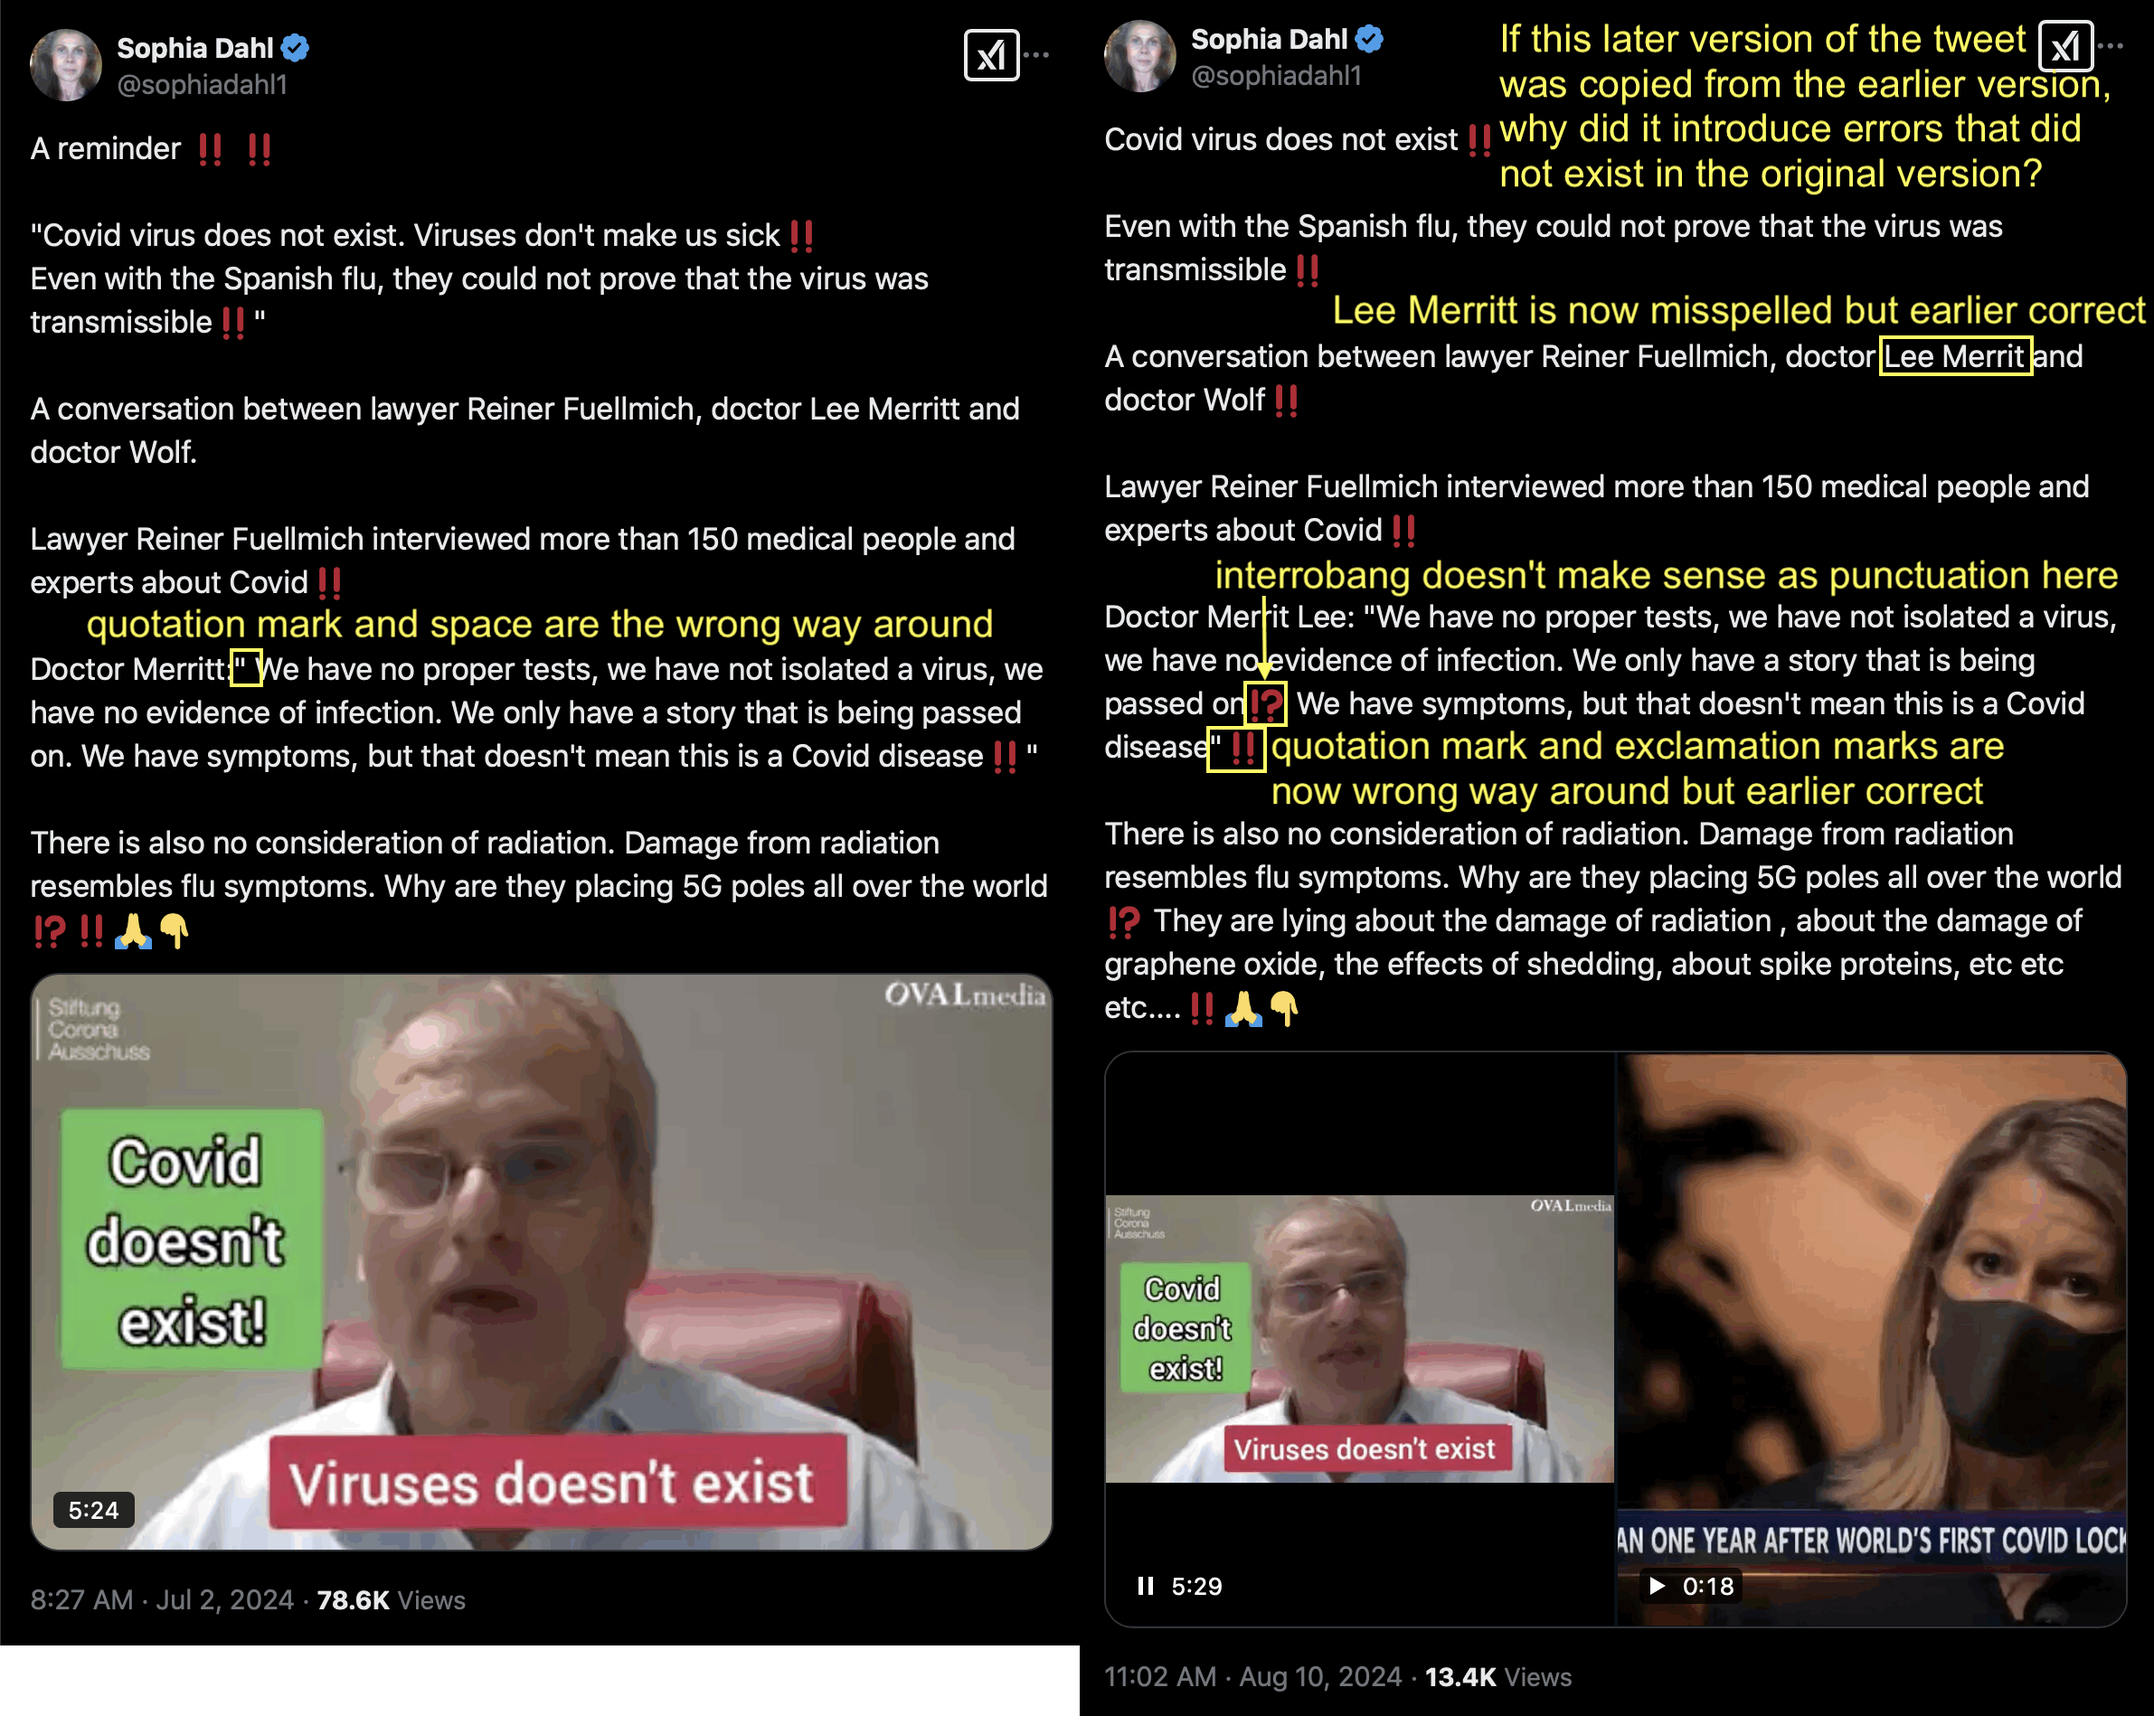
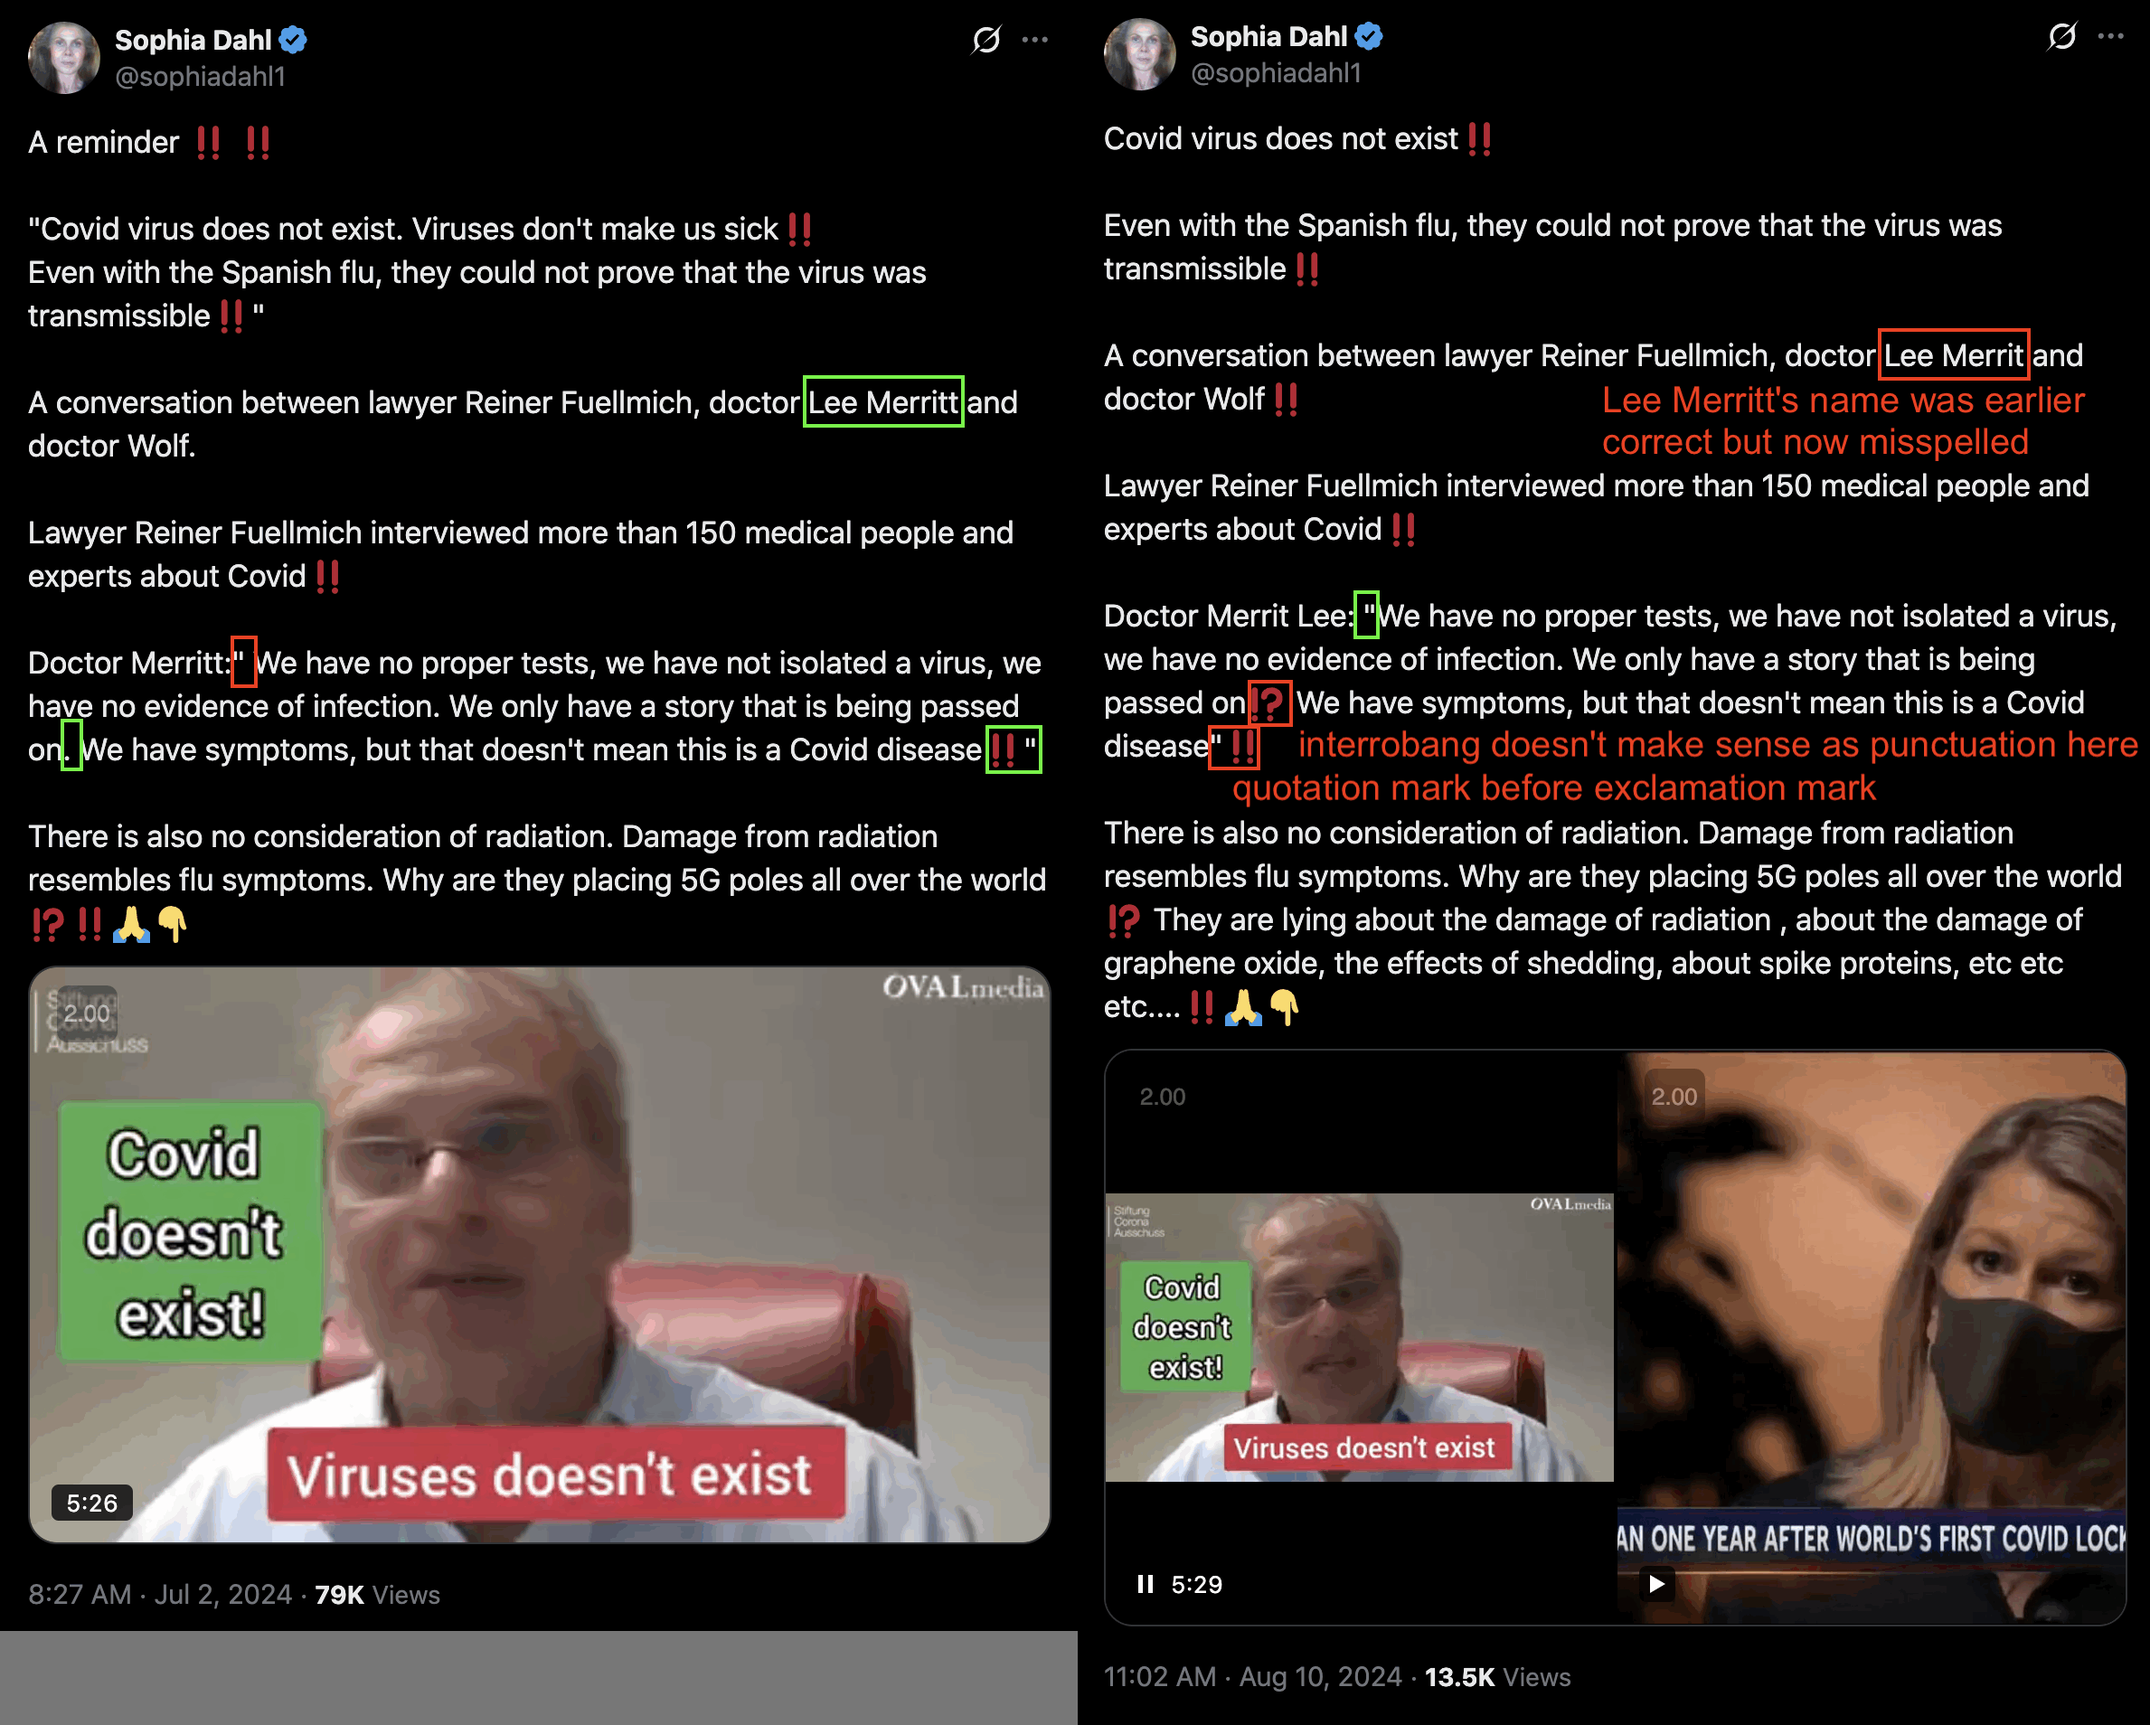
a

diff --git a/bot2.html b/bot2.html
@@ -23,8 +23,8 @@ img{max-width:100%}
 dt{font-size:1.3em;margin:.3em 0 .3em 0}
 blockquote{margin:0;padding-left:40px;margin-right:0;overflow-x:hidden}
 blockquote p{max-width:480px}
-blockquote p:first-child{margin-top:0}
-blockquote p:last-child{margin-bottom:0}
+blockquote>:first-child{margin-top:0}
+blockquote>:last-child{margin-bottom:0}
 blockquote blockquote p{max-width:440px}
 blockquote blockquote blockquote p{max-width:400px}
 blockquote,.quote,blockquote h1,blockquote h2,blockquote h3{color:hsl(50,100%,85%)}
@@ -1762,11 +1762,10 @@ reposted          mariusknulst sophiadahl1
 <div class="width14">
 <img src="i/bot-dahl-7.jpg">
 </div>
-<p>sophiadahl1 posted two variations of the tweet below about one month apart. The tweets look like they might be generated by AI based on some template so that it humanized the text by introducing a certain number of errors to the template, so that it doesn't look like grammatically perfect text that was generated by AI but it looks like text that was written by a crazy person: [<a href="https://x.com/sophiadahl1/status/1808009492262510961">https://x.com/sophiadahl1/status/1808009492262510961</a>, <a href="https://x.com/sophiadahl1/status/1822181811012722858">https://x.com/sophiadahl1/status/1822181811012722858</a>]</p>
+<p>sophiadahl1 posted two variations of the tweet below about one month apart. In the older version of the tweet there was one error that was corrected in the newer version, but in the newer version there were three errors introduced that were missing from the older version. But if the newer tweet was manually edited by a human based on the older tweet, then why were there multiple new errors introduced in the newer tweet that did not exist in the older tweet? The tweets look like they might be generated by AI based on some template so that it introduced random emojis and a certain number of errors to the template, so that the tweet doesn't look like grammatically perfect text that was generated by AI but it looks like text that was written by a crazy person: [<a href="https://x.com/sophiadahl1/status/1808009492262510961">https://x.com/sophiadahl1/status/1808009492262510961</a>, <a href="https://x.com/sophiadahl1/status/1822181811012722858">https://x.com/sophiadahl1/status/1822181811012722858</a>]</p>
 <div class="width10">
 <img src="i/bot-dahl-8.png">
 </div>
-<p>In the image above the older version of the tweet on the left had one error I highlighted which was fixed in the newer version, but the newer version had three errors I highlighted that were missing from the older version. But if the new version was based on the old version, why were there new errors introduced to the new version? It would make sense if both versions were generated by some AI text humanizer utility which introduced random errors to a template which was missing the errors.</p>
 <p>Emojis for red question marks and red exclamation marks are frequently also used by Thekeksociety whose tweets seem AI-generated.</p>
 <p>Added in January 2025: An account called XPHOENIXDRAGON which is similar to Thekeksociety posted the tweet below, where it added a red question mark emoji to the end of the first line even though a question mark didn't make sense as punctuation at that point (in the same way that sophiadahl1 used an interrobang emoji as punctuation at a spot where it didn't make sense):</p>
 <div class="width5">
@@ -1785,10 +1784,6 @@ reposted          mariusknulst sophiadahl1
 <img src="i/bot-dahl-turk.png">
 </div>
 <p>But when I searched for <code>from:sophiadahl1 lang:tr</code> and <code>from:mariusknulst lang:tr</code>, and I didn't find any original Turkish-language tweets by either account. And I also didn't find either account mentioning that they speak Turkish anywhere.</p>
-<p>Added in April 2025: Some tweets by sophiadahl1 look like they were written by a human, like this tweet where it said it followed Kevin McCairn: [<a href="https://x.com/sophiadahl1/status/1773266572032856091">https://x.com/sophiadahl1/status/1773266572032856091</a>]</p>
-<div class="width5">
-<img src="i/bot-dahl-13.png">
-</div>
 <h2>
 <a href=#More_Asian_accounts_with_many_reposts_about_COVID id=More_Asian_accounts_with_many_reposts_about_COVID>More Asian accounts with many reposts about COVID</a>
 </h2>

diff --git a/rootclaim4.html b/rootclaim4.html
@@ -459,7 +459,7 @@ merge(merge(t1,t3),vax)[,cor(dead/base,vax)]
 merge(merge(t1,t3),vax)[,cor(dead/base,vax)]
 # [1] 0.5609224</pre>
 <p>In the next plot I first converted monthly deaths in each state to a percentage of average monthly deaths in the same state in 2019. Then I picked the 10 states with the highest and lowest number of vaccine doses per hundred people in Kirsch's spreadsheet, and I calculated the average monthly percentage of deaths for both groups. It's easy to see how the least-vaccinated states had higher mortality in July to November 2020 than the most-vaccinated states:</p>
-<div class="width6">
+<div class="width5">
 <img src="i/rootclaim-2122-2.png">
 </div>
 <div class="spoiler">
@@ -1901,7 +1901,7 @@ ggsave(&quot;1.png&quot;,width=5.8,height=2.8,dpi=300*4)
 system(&quot;magick 1.png -resize 25% -colors 256 1.png&quot;)</pre>
 </div>
 <p>The plot above shows that the number of births started going down after 2017, and even the number of births in the year 2022 roughly fall on the 2015-2020 quadratic trend. But there was just an unusually high number of births in 2021, which may have partially been due to the lockdowns in 2020.</p>
-<p>In Mannische et al.'s spreadsheet the population size of women aged 18 to 39 was listed as 1,277,590 in 2021, 1,340,229 in 2022, and 1,342,367 in 2023. Their figures were population estimates on December 31st, which are identical to Eurostat's population estimates on January 1st the next year (or off by 3 in the case of 2021/2022 for some reason):</p>
+<p>In Mannische et al.'s spreadsheet the population size of women aged 18 to 39 was listed as 1,277,590 in 2021, 1,340,229 in 2022, and 1,342,367 in 2023. The figures were population estimates on December 31st, which are identical to Eurostat's population estimates on January 1st the next year (or off by 3 in the case of 2021/2022 for some reason):</p>
 <table>
 <tr>
 <th>
